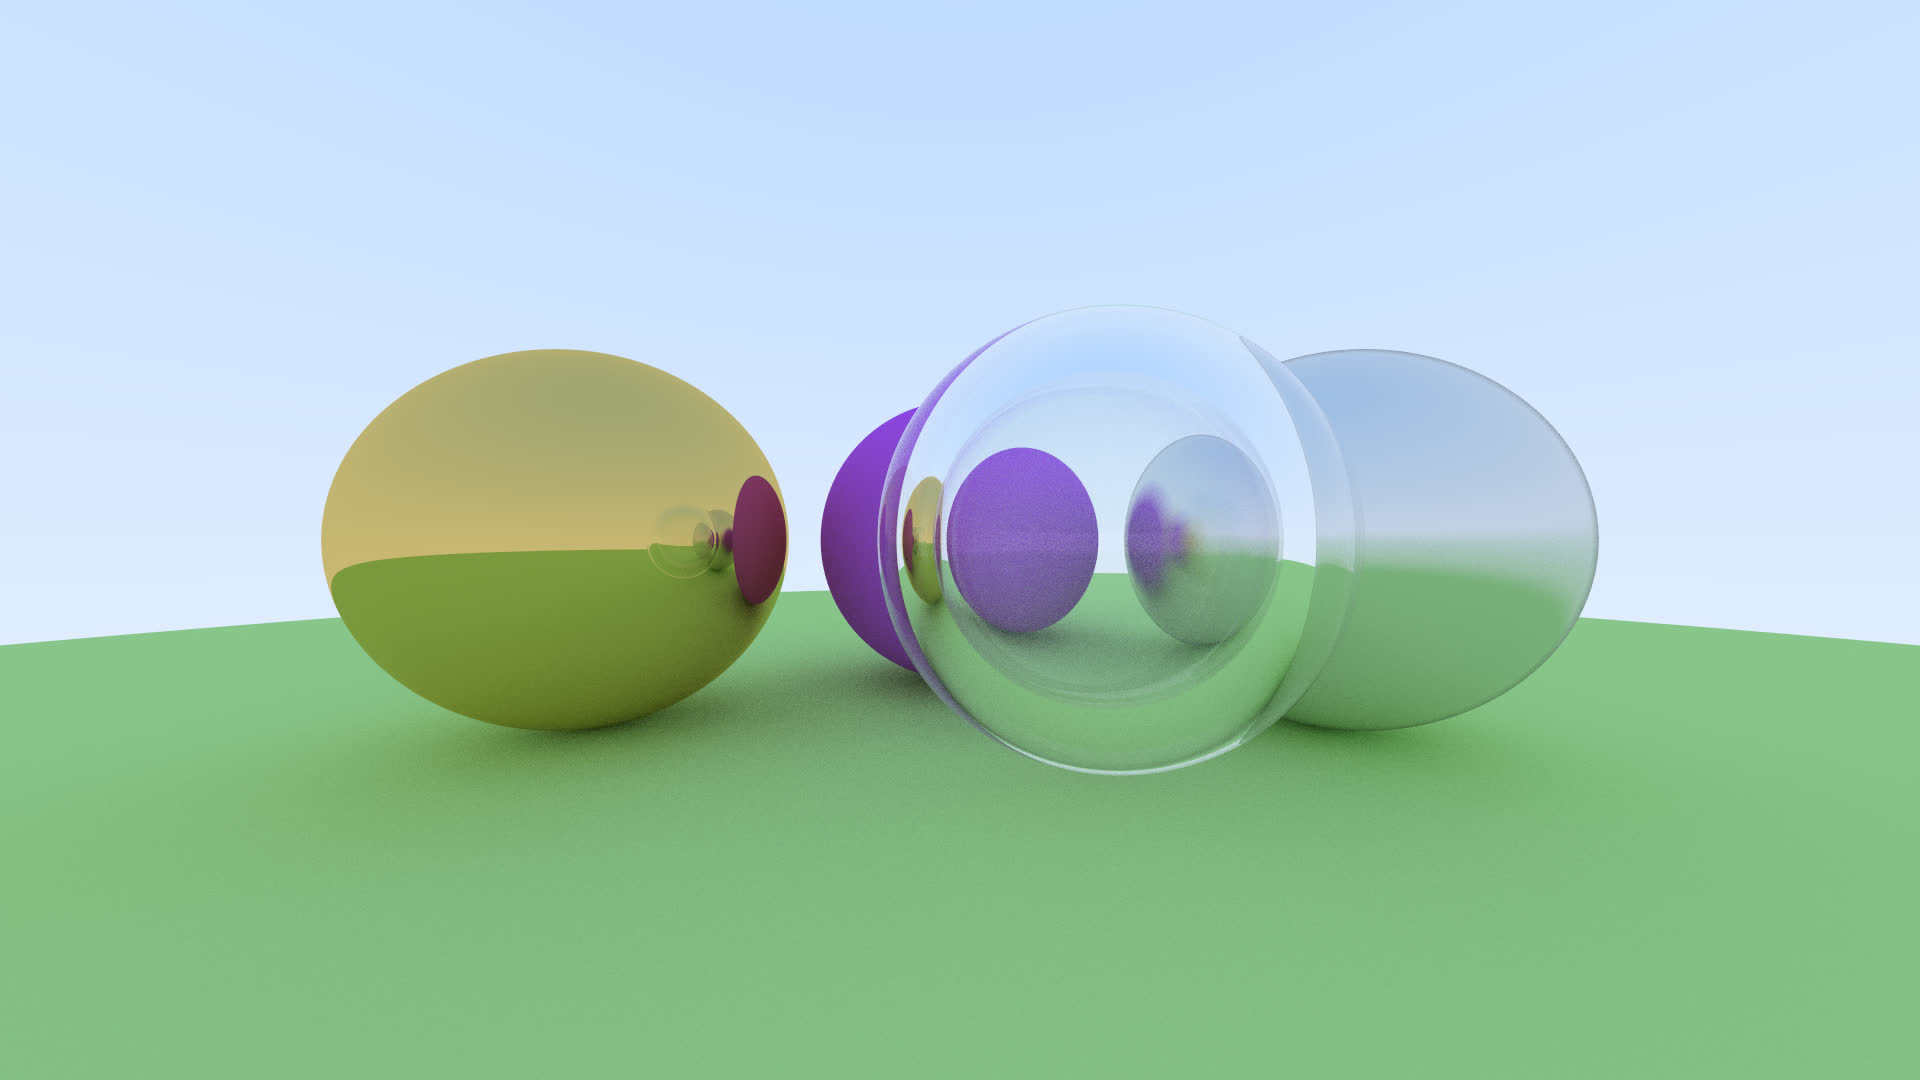
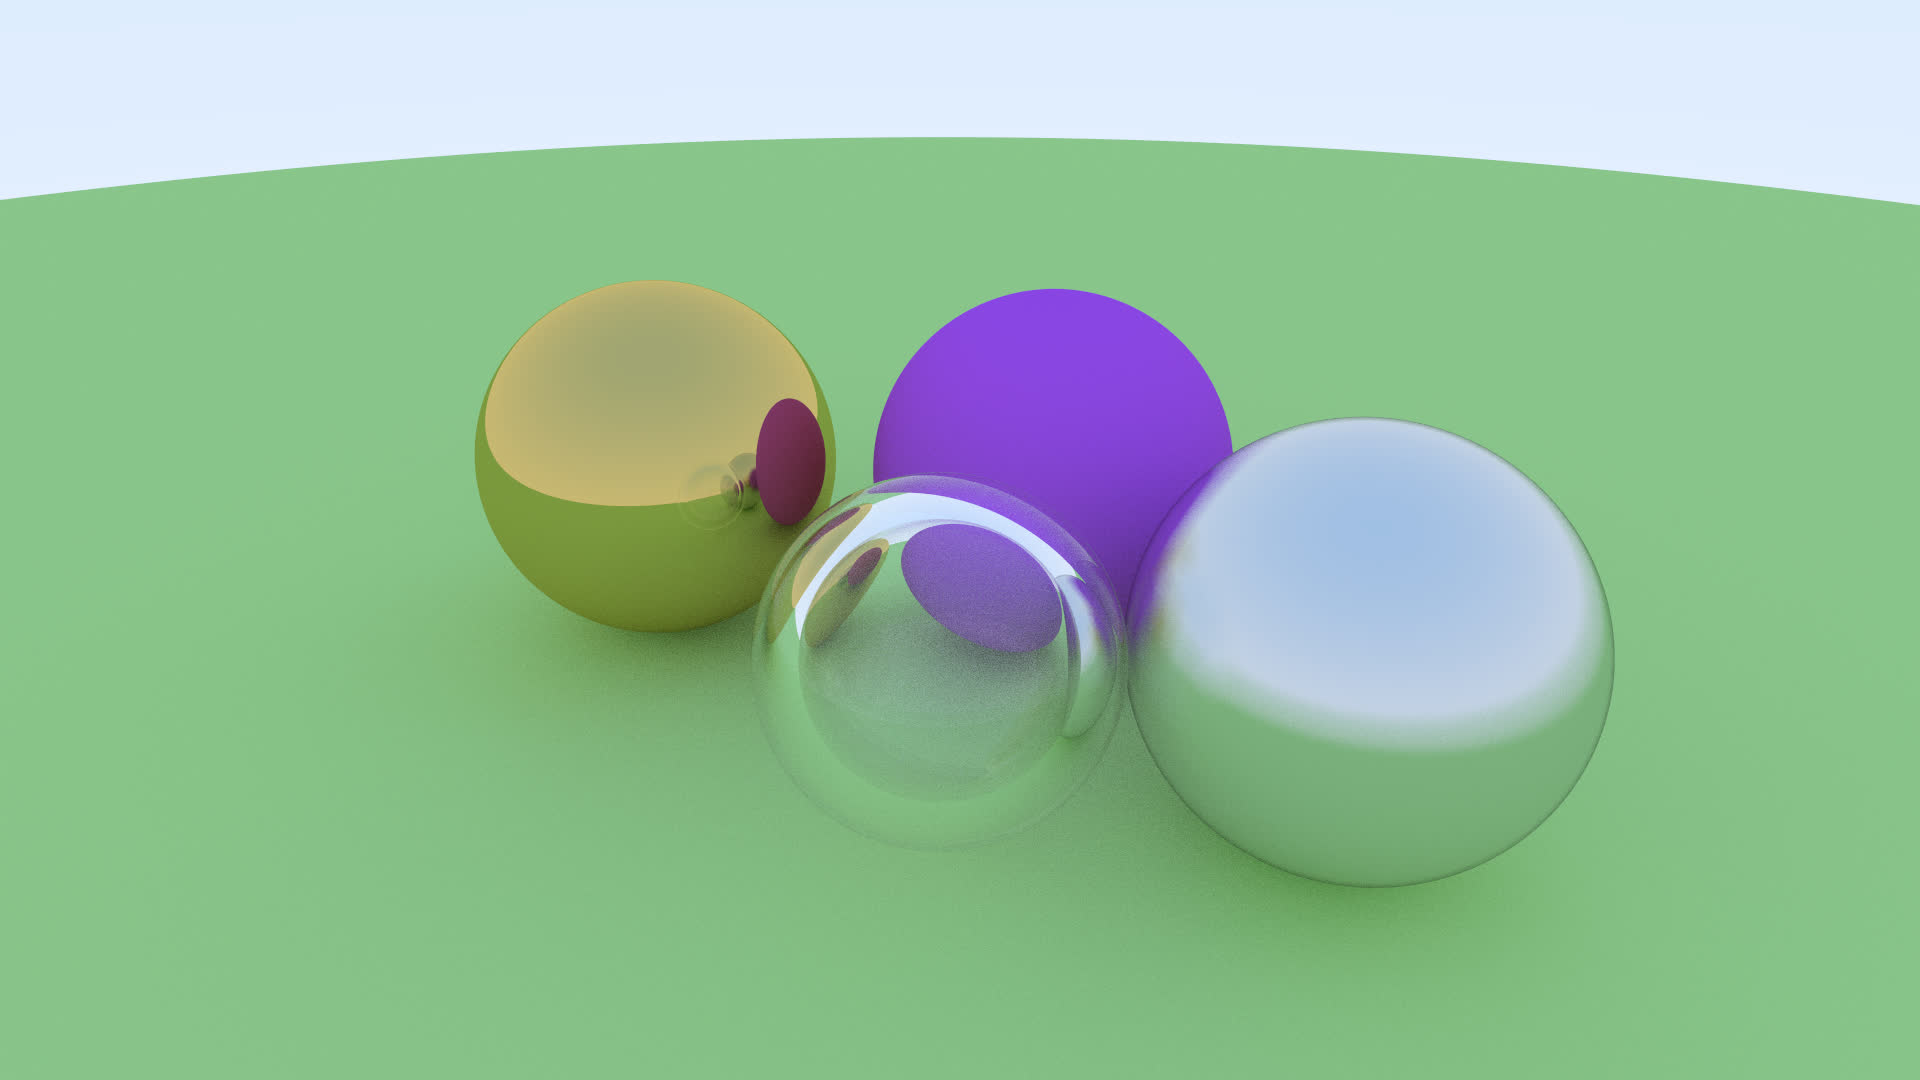
added movable camera and fov

diff --git a/camera.h b/camera.h
@@ -13,6 +13,11 @@ class camera{
         int samples_per_pixel=10;
         int max_depth=10;
 
+        double vfov=90;
+        point3 lookfrom=point3(0,0,0);
+        point3 lookat=point3(0,0,-1);
+        vec3 vup=vec3(0,1,0);
+
         int render(const hittable& world,const std::string& file_name){
             initialize();
             std::ofstream outFile(file_name,std::ios::binary);
@@ -52,24 +57,33 @@ class camera{
         vec3 pixel_delta_v;
         vec3 pixel00_loc;
 
+        vec3 u,v,w;
+
         void initialize(){
             image_height=int(image_width/aspect_ratio);
             image_height=(image_height<1)?1:image_height;
 
             pixel_samples_scale = 1.0 / samples_per_pixel;
 
-            float focal_length=1.0;
-            float viewport_height=2.0;
-            float viewport_width=viewport_height*(double(image_width)/image_height);
-            camera_center=point3(0,0,0);
+            camera_center=lookfrom;
 
-            vec3 viewport_u(viewport_width,0,0);
-            vec3 viewport_v(0,-viewport_height,0);
+            float focal_length=(lookfrom-lookat).length();
+            double theta=degrees_to_radians(vfov);
+            double h=std::tan(theta/2);
+            float viewport_height=2*h*focal_length;
+            float viewport_width=viewport_height*(double(image_width)/image_height);
+
+            w=unit_vector(lookfrom-lookat);
+            u=unit_vector(cross(vup,w));
+            v=cross(w,u);
+
+            vec3 viewport_u=viewport_width*u;
+            vec3 viewport_v=viewport_height*-v;
 
             pixel_delta_u=viewport_u/image_width;
             pixel_delta_v=viewport_v/image_height;
 
-            vec3 viewport_upper_left=camera_center-vec3(0,0,focal_length)-viewport_u/2-viewport_v/2;
+            vec3 viewport_upper_left=camera_center-(focal_length*w)-viewport_u/2-viewport_v/2;
             pixel00_loc=viewport_upper_left+0.5*(pixel_delta_u+pixel_delta_v);
         }
 

diff --git a/ray_sphere.cpp b/ray_sphere.cpp
@@ -30,6 +30,11 @@ int main(){
     cam.samples_per_pixel=100;
     cam.max_depth=50;
 
+    cam.vfov=45;
+    cam.lookfrom=point3(1.5,1.5,1);
+    cam.lookat=point3(0,0,-1.5);
+    cam.vup=vec3(0,1,0);
+
     cam.render(world,"temp.ppm");
 
     return 0;